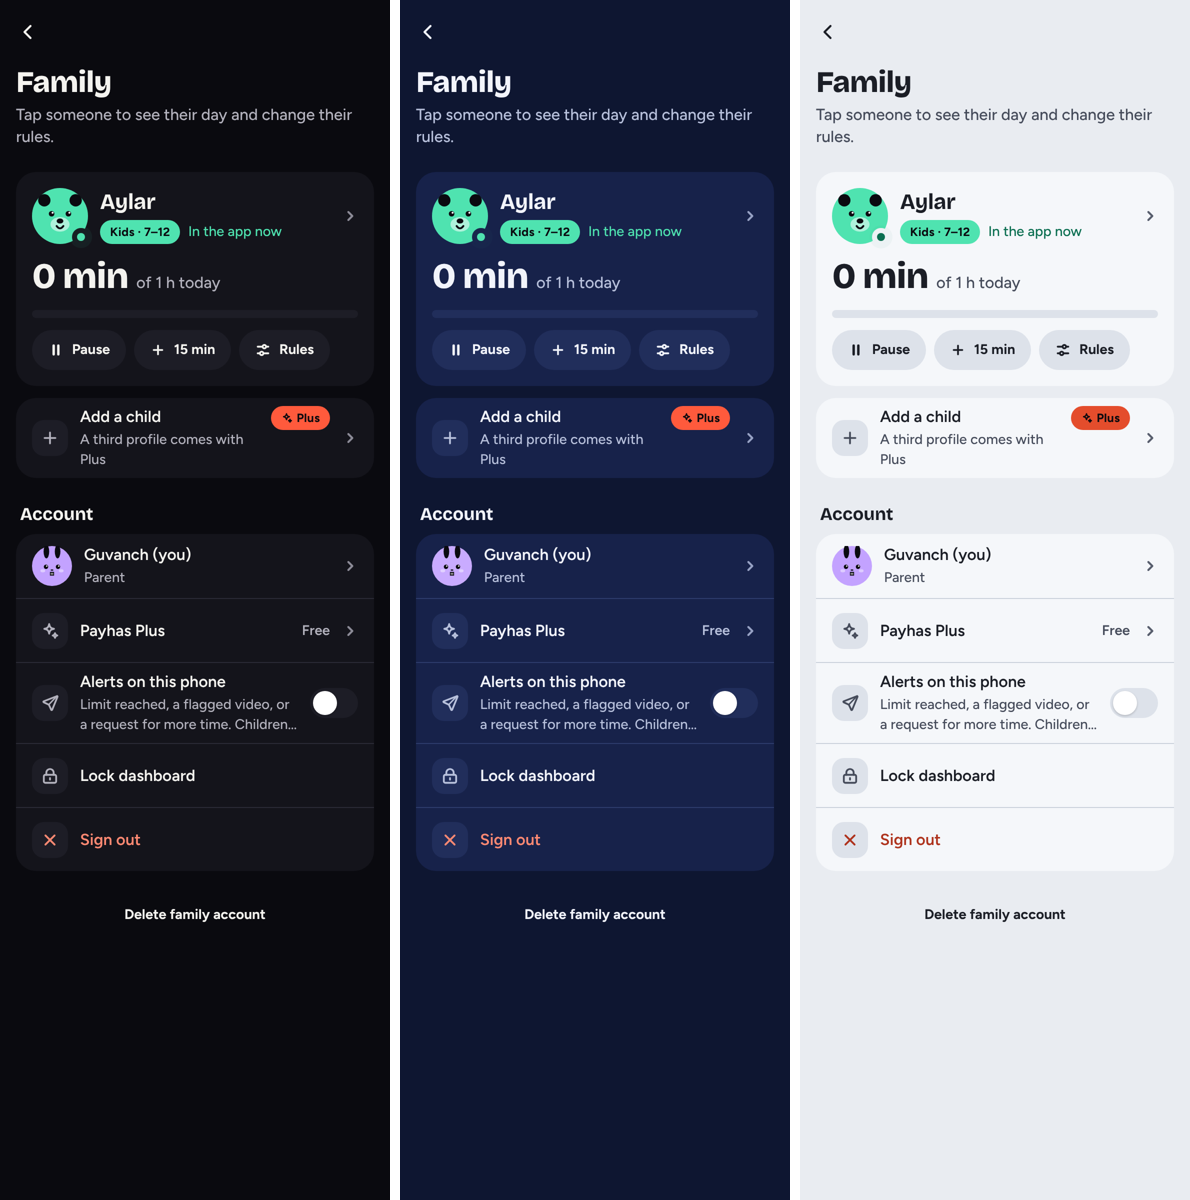
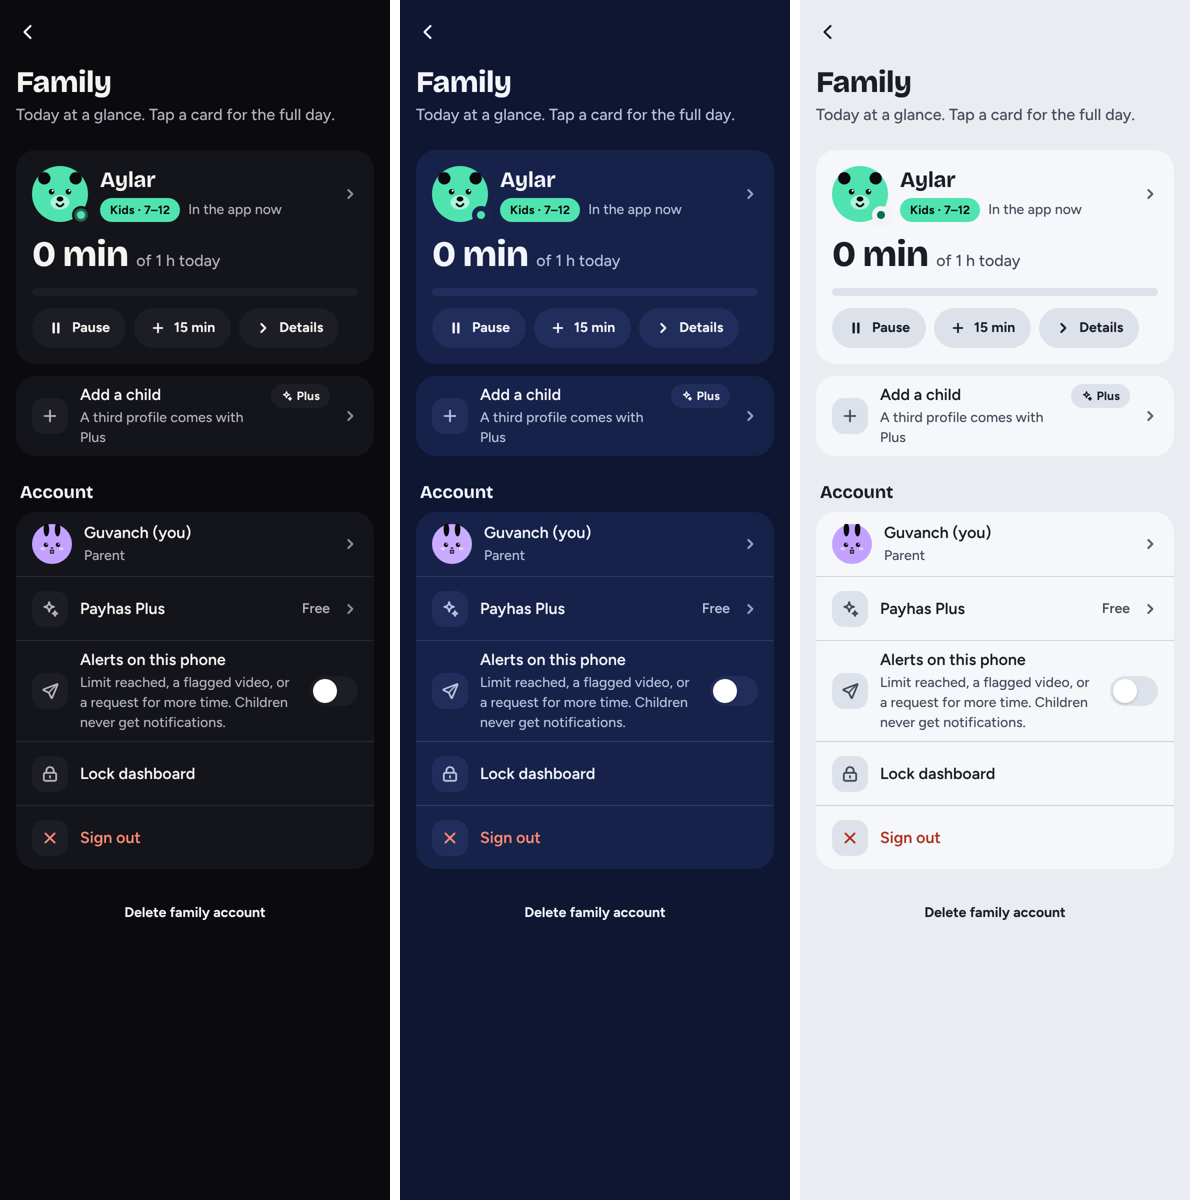
Play and Family: design critique and accessibility audit, with fixes
Critique (design-critique skill): Plus badge no longer ember, Undo on Pause,
"Rules" becomes "Details", open games before locked ones, neutral live
status, up-to-date subtitle, row hints up to three lines.
Accessibility (accessibility-audit skill + axe-core): named progress bars,
switch state on the row, tablist, no nested buttons, decorative game scenes
hidden, level-2 section headings, lane badge only a button when tappable,
card buttons named with the child. axe: 0 violations, Dark and Light.

Claude-Session: https://claude.ai/code/session_01BbM9SosTsaVhmqwJR5waFx

diff --git a/src/app/parent.tsx b/src/app/parent.tsx
@@ -1,6 +1,6 @@
 import { router, useFocusEffect, useLocalSearchParams } from 'expo-router';
 import { useCallback, useEffect, useRef, useState } from 'react';
-import { Alert, ScrollView, Text, View } from 'react-native';
+import { Alert, Pressable, ScrollView, Text, View } from 'react-native';
 
 import { Icon } from '@/components/Icon';
 import { LaneBadge } from '@/components/LaneBadge';
@@ -104,14 +104,15 @@ export default function FamilyScreen() {
     );
   }
 
-  const done = (ok: boolean, text: string) => {
+  /** Report an action; Pause passes `undo` so a mis-tap is one tap to reverse. */
+  const done = (ok: boolean, text: string, undo?: () => Promise<boolean>) => {
     if (!ok) {
       fx.error();
       toast({ text: t('parent.networkError'), icon: 'close' });
       return;
     }
     fx.success();
-    toast({ text, icon: 'check' });
+    toast({ text, icon: 'check', action: undo ? { label: t('parent.undo'), onPress: () => void undo() } : undefined });
   };
 
   const adults = profiles.filter((p) => p.lane === 'adult').sort((a, b) => Number(b.is_parent) - Number(a.is_parent));
@@ -125,7 +126,7 @@ export default function FamilyScreen() {
     <View style={styles.root}>
       <ScrollView contentContainerStyle={[styles.content, { paddingTop: top + space.sm, paddingBottom: bottom + space.xxl }]} showsVerticalScrollIndicator={false}>
         <Enter index={0}>
-          <PageHeader back title={t('parent.title')} subtitle={t('parent.familySub')} />
+          <PageHeader back title={t('parent.title')} subtitle={t('parent.familyGlance')} />
         </Enter>
 
         {(requests.length > 0 || flags.length > 0) && (
@@ -180,7 +181,7 @@ export default function FamilyScreen() {
                   onOpen={() => openChild(c)}
                   onPause={async () => {
                     const next = !c.paused;
-                    done(await setPaused(c, next), t(next ? 'parent.pausedToast' : 'parent.resumedToast', { name: c.display_name }));
+                    done(await setPaused(c, next), t(next ? 'parent.pausedToast' : 'parent.resumedToast', { name: c.display_name }), () => setPaused(c, !next));
                   }}
                   onAddTime={async () => done(await addTime(c, 15), t('parent.addedTime', { count: 15, name: c.display_name }))}
                 />
@@ -269,8 +270,8 @@ function ChildCard({ child, avatar, onOpen, onPause, onAddTime }: { child: Child
   const limit = child.daily_limit_minutes == null ? null : child.daily_limit_minutes + child.extra_minutes;
   const status = child.paused ? t('parent.paused') : p.text;
   return (
-    <Card onPress={onOpen} accessibilityLabel={`${child.display_name}, ${t(roleKey(child))}. ${status}`}>
-      <View style={styles.who}>
+    <Card>
+      <Pressable onPress={onOpen} accessibilityRole="button" accessibilityLabel={`${child.display_name}, ${t(roleKey(child))}. ${status}`} style={styles.who}>
         <View>
           <Avatar name={child.display_name} avatar={avatar} lane={child.lane} size={56} />
           {p.live && !child.paused && (
@@ -285,22 +286,22 @@ function ChildCard({ child, avatar, onOpen, onPause, onAddTime }: { child: Child
           </Text>
           <View style={styles.statusRow}>
             <LaneBadge lane={child.lane} label={`${t(roleKey(child))} · ${lanes[child.lane].ages}`} />
-            <Text style={[styles.status, child.paused ? { color: color.info } : p.live && { color: color.success }]} numberOfLines={1}>
+            <Text style={styles.status} numberOfLines={1}>
               {status}
             </Text>
           </View>
         </View>
         <Icon name="chevron" size={iconSize.sm} color={color.text3} strokeWidth={iconStroke(iconSize.sm)} />
-      </View>
+      </Pressable>
       <View style={styles.usedRow}>
         <Text style={styles.used}>{minutes(t, used)}</Text>
         <Text style={styles.muted}>{limit ? t('parent.ofToday', { limit: minutes(t, limit * 60) }) : t('parent.noLimit')}</Text>
       </View>
-      {limit != null && <ProgressBar progress={used / (limit * 60)} />}
+      {limit != null && <ProgressBar progress={used / (limit * 60)} label={`${child.display_name}: ${minutes(t, used)} ${t('parent.ofToday', { limit: minutes(t, limit * 60) })}`} />}
       <View style={styles.actions}>
-        <Button size="sm" variant="secondary" icon={child.paused ? 'play' : 'pause'} label={t(child.paused ? 'parent.resume' : 'parent.pauseShort')} onPress={onPause} />
-        {limit != null && <Button size="sm" variant="secondary" icon="plus" label={t('parent.addMin', { count: 15 })} onPress={onAddTime} />}
-        <Button size="sm" variant="secondary" icon="sliders" label={t('parent.rules')} onPress={onOpen} />
+        <Button size="sm" variant="secondary" icon={child.paused ? 'play' : 'pause'} label={t(child.paused ? 'parent.resume' : 'parent.pauseShort')} accessibilityLabel={`${t(child.paused ? 'parent.resume' : 'parent.pauseShort')}: ${child.display_name}`} onPress={onPause} />
+        {limit != null && <Button size="sm" variant="secondary" icon="plus" label={t('parent.addMin', { count: 15 })} accessibilityLabel={t('parent.addedTime', { count: 15, name: child.display_name })} onPress={onAddTime} />}
+        <Button size="sm" variant="secondary" icon="chevron" label={t('parent.details')} accessibilityLabel={`${t('parent.details')}: ${child.display_name}`} onPress={onOpen} />
       </View>
     </Card>
   );

diff --git a/src/app/(tabs)/play.tsx b/src/app/(tabs)/play.tsx
@@ -1,6 +1,6 @@
 import { router, useIsFocused } from 'expo-router';
 import { useEffect, useState } from 'react';
-import { ScrollView, StyleSheet, Text, useWindowDimensions, View } from 'react-native';
+import { Pressable, ScrollView, StyleSheet, Text, useWindowDimensions, View } from 'react-native';
 
 import { BottomSheet } from '@/components/BottomSheet';
 import { Icon } from '@/components/Icon';
@@ -70,7 +70,7 @@ export default function PlayScreen() {
             title={t('play.title')}
             subtitle={limitMinutes != null ? t('play.leftToday', { n: Math.max(0, limitMinutes - todayMin) }) : t('play.playedToday', { n: todayMin })}
           />
-          {limitMinutes != null && limitMinutes > 0 && <ProgressBar progress={todayMin / limitMinutes} />}
+          {limitMinutes != null && limitMinutes > 0 && <ProgressBar progress={todayMin / limitMinutes} label={t('play.leftToday', { n: Math.max(0, limitMinutes - todayMin) })} />}
         </Enter>
 
         {featured && (
@@ -80,7 +80,8 @@ export default function PlayScreen() {
         )}
 
         {SECTIONS.map((section) => {
-          const games = section.games.filter((id) => id !== featured);
+          // Open games first, locked ones after: a child shouldn't meet a wall of locks.
+          const games = section.games.filter((id) => id !== featured).sort((a, b) => Number(!gameOpen(a)) - Number(!gameOpen(b)));
           if (games.length === 0) return null;
           const grid = GRID_SECTIONS.includes(section.title);
           return (
@@ -119,7 +120,8 @@ export default function PlayScreen() {
 function Stage({ meta, active, locked, height }: { meta: GameMeta; active: boolean; locked: boolean; height: number }) {
   const { Scene } = meta;
   return (
-    <View style={[styles.stage, { height, backgroundColor: meta.tint }]}>
+    // Decorative scene: the tile around it carries the name for screen readers.
+    <View style={[styles.stage, { height, backgroundColor: meta.tint }]} accessible={false} importantForAccessibility="no-hide-descendants" aria-hidden>
       <Scene active={active && !locked} />
       {locked && (
         <View style={styles.lockScrim}>
@@ -136,8 +138,11 @@ function Featured({ meta, lane, focused, onPlay }: { meta: GameMeta; lane: Lane;
   const { t } = useT();
   const name = t(meta.name);
   return (
-    <Card hero tactile flush onPress={onPlay} accessibilityLabel={`${name}. ${meta.sub(lane, t)}`}>
-      <Stage meta={meta} active={focused} locked={false} height={HERO_STAGE} />
+    <Card hero tactile flush>
+      {/* The art is a big tap target for small hands; screen readers get the one Play button instead. */}
+      <Pressable onPress={onPlay} accessible={false} importantForAccessibility="no-hide-descendants">
+        <Stage meta={meta} active={focused} locked={false} height={HERO_STAGE} />
+      </Pressable>
       <View style={styles.heroFoot}>
         <View style={styles.grow}>
           <Text style={styles.heroName} numberOfLines={1}>
@@ -147,7 +152,7 @@ function Featured({ meta, lane, focused, onPlay }: { meta: GameMeta; lane: Lane;
             {meta.sub(lane, t)}
           </Text>
         </View>
-        <Button label={t('play.play')} size="sm" block={false} onPress={onPlay} />
+        <Button label={t('play.play')} accessibilityLabel={`${t('play.play')}: ${name}`} size="sm" block={false} onPress={onPlay} />
       </View>
     </Card>
   );

diff --git a/src/i18n/strings/parent.ts b/src/i18n/strings/parent.ts
@@ -11,6 +11,9 @@ export default defineStrings(
     laneMove: "{name} moves to {lane} ({ages}). Interests that don't fit are removed.",
     savedToast: '{name} saved',
     familySub: 'Tap someone to see their day and change their rules.',
+    familyGlance: 'Today at a glance. Tap a card for the full day.',
+    details: 'Details',
+    undo: 'Undo',
     yourFamily: 'Your family',
     needsYou: 'Needs you',
     account: 'Account',
@@ -140,6 +143,9 @@ export default defineStrings(
       laneMove: '{name} {lane} ({ages}) toparyna geçýär. Laýyk gelmeýän gyzyklanmalar aýrylýar.',
       savedToast: '{name} ýatda saklandy',
       familySub: 'Biriniň gününi görmek we düzgünlerini üýtgetmek üçin basyň.',
+      familyGlance: 'Şu gün bir bakyşda. Doly gün üçin kartoçka basyň.',
+      details: 'Jikme-jik',
+      undo: 'Yzyna al',
       yourFamily: 'Maşgalaňyz',
       needsYou: 'Jogabyňyza garaşýar',
       account: 'Hasap',
@@ -259,6 +265,9 @@ export default defineStrings(
       laneMove: '{name} {lane} ({ages}) grubuna geçiyor. Uymayan ilgi alanları kaldırılır.',
       savedToast: '{name} kaydedildi',
       familySub: 'Gününü görmek ve kurallarını değiştirmek için birine dokunun.',
+      familyGlance: 'Bugün bir bakışta. Tüm gün için karta dokunun.',
+      details: 'Ayrıntılar',
+      undo: 'Geri al',
       yourFamily: 'Aileniz',
       needsYou: 'Yanıtınızı bekliyor',
       account: 'Hesap',
@@ -378,6 +387,9 @@ export default defineStrings(
       laneMove: '{name} переходит в группу «{lane}» ({ages}). Неподходящие интересы будут удалены.',
       savedToast: '{name}: сохранено',
       familySub: 'Нажмите на человека, чтобы увидеть его день и изменить правила.',
+      familyGlance: 'Сегодня с первого взгляда. Нажмите на карточку, чтобы увидеть весь день.',
+      details: 'Подробнее',
+      undo: 'Отменить',
       yourFamily: 'Ваша семья',
       needsYou: 'Ждёт вашего ответа',
       account: 'Аккаунт',

diff --git a/src/components/LaneBadge.tsx b/src/components/LaneBadge.tsx
@@ -1,4 +1,4 @@
-import { Pressable, Text } from 'react-native';
+import { Pressable, Text, View } from 'react-native';
 
 import { Icon } from '@/components/Icon';
 import { laneKey, useT } from '@/i18n';
@@ -15,17 +15,18 @@ export function LaneBadge({ lane, label, onPress, variant = 'filled' }: Props) {
   const l = lanes[lane];
   const { t } = useT();
   const name = label ?? t(laneKey(lane));
-  return (
-    <Pressable
-      onPress={onPress}
-      accessibilityRole="button"
-      accessibilityLabel={t('common.laneBadge', { lane: name, ages: l.ages })}
-      hitSlop={8}
-      disabled={!onPress}
-      style={[styles.badge, variant === 'filled' ? { backgroundColor: l.color } : styles.media]}
-    >
+  const body = (
+    <>
       {variant === 'media' && <Icon name="shield" size={12} color={l.color} strokeWidth={2.4} />}
       <Text style={[styles.label, { color: variant === 'filled' ? color.ink : l.color }]}>{name}</Text>
+    </>
+  );
+  const style = [styles.badge, variant === 'filled' ? { backgroundColor: l.color } : styles.media];
+  // Only a tappable badge is a button ("… Switch profile"); otherwise it's just text.
+  if (!onPress) return <View style={style}>{body}</View>;
+  return (
+    <Pressable onPress={onPress} accessibilityRole="button" accessibilityLabel={t('common.laneBadge', { lane: name, ages: l.ages })} hitSlop={8} style={style}>
+      {body}
     </Pressable>
   );
 }

diff --git a/src/components/ui/Badge.tsx b/src/components/ui/Badge.tsx
@@ -5,11 +5,15 @@ import { color, font, iconSize, iconStroke, radius, space, themedStyles, type } 
 
 type Tone = 'neutral' | 'plus' | 'success' | 'danger';
 
-/** A small pill label: plan names, counts, states. Lane badges use LaneBadge (lane colours mean age only). */
+/**
+ * A small pill label: plan names, counts, states. Lane badges use LaneBadge
+ * (lane colours mean age only). `plus` is neutral with the sparkle — ember is
+ * for actions, not labels.
+ */
 export function Badge({ label, tone = 'neutral', icon }: { label: string; tone?: Tone; icon?: IconName }) {
-  const fg = tone === 'plus' ? color.ink : tone === 'success' ? color.success : tone === 'danger' ? color.danger : color.text2;
+  const fg = tone === 'plus' ? color.text : tone === 'success' ? color.success : tone === 'danger' ? color.danger : color.text2;
   return (
-    <View style={[styles.badge, tone === 'plus' && { backgroundColor: color.ember }]}>
+    <View style={styles.badge}>
       {!!icon && <Icon name={icon} size={12} color={fg} strokeWidth={iconStroke(iconSize.sm)} />}
       <Text style={[styles.text, { color: fg }]} numberOfLines={1}>
         {label}

diff --git a/src/components/ui/List.tsx b/src/components/ui/List.tsx
@@ -11,7 +11,7 @@ export function ListGroup({ title, footer, children }: { title?: string; footer?
   return (
     <View style={{ gap: space.sm }}>
       {!!title && (
-        <Text style={styles.groupTitle} accessibilityRole="header">
+        <Text style={styles.groupTitle} accessibilityRole="header" aria-level={2}>
           {title}
         </Text>
       )}
@@ -56,7 +56,7 @@ export function ListRow({ label, sub, leading, icon, value, toggle, onPress, dan
           {label}
         </Text>
         {typeof sub === 'string' ? (
-          <Text style={styles.sub} numberOfLines={2}>
+          <Text style={styles.sub} numberOfLines={3}>
             {sub}
           </Text>
         ) : (
@@ -85,6 +85,7 @@ export function ListRow({ label, sub, leading, icon, value, toggle, onPress, dan
       }}
       accessibilityRole={toggle != null ? 'switch' : 'button'}
       accessibilityState={toggle != null ? { checked: toggle } : undefined}
+      aria-checked={toggle ?? undefined}
       accessibilityLabel={accessibilityLabel ?? label}
       style={({ pressed }) => [style, pressed && { backgroundColor: color.surface2 }]}
     >

diff --git a/src/components/ui/ProgressBar.tsx b/src/components/ui/ProgressBar.tsx
@@ -2,12 +2,12 @@ import { View } from 'react-native';
 
 import { color, radius, themedStyles } from '@/theme/tokens';
 
-/** Time used or progress: success green, danger once it's full. `thin` for inside rows. */
-export function ProgressBar({ progress, thin }: { progress: number; thin?: boolean }) {
+/** Time used or progress: success green, danger once it's full. `thin` for inside rows. `label` names it for screen readers. */
+export function ProgressBar({ progress, label, thin }: { progress: number; label: string; thin?: boolean }) {
   const p = Math.max(0, Math.min(1, progress));
   const h = thin ? 6 : 8;
   return (
-    <View style={[styles.track, { height: h }]} accessibilityRole="progressbar" accessibilityValue={{ min: 0, max: 100, now: Math.round(p * 100) }}>
+    <View style={[styles.track, { height: h }]} accessibilityRole="progressbar" accessibilityLabel={label} accessibilityValue={{ min: 0, max: 100, now: Math.round(p * 100) }}>
       <View style={[styles.fill, { width: `${Math.max(p > 0 ? 3 : 0, p * 100)}%`, backgroundColor: p >= 1 ? color.danger : color.success }]} />
     </View>
   );

diff --git a/src/app/(tabs)/_layout.tsx b/src/app/(tabs)/_layout.tsx
@@ -88,7 +88,7 @@ export default function TabsLayout() {
     <Tabs style={styles.root}>
       <TabSlot style={styles.root} />
       {/* Floats above the gesture bar; screens add useTabBarSpace() so content clears it. */}
-      <TabList style={[styles.bar, { bottom: bottom + TAB_BAR.gap }]} onLayout={(e) => setWidth(e.nativeEvent.layout.width)}>
+      <TabList accessibilityRole="tablist" style={[styles.bar, { bottom: bottom + TAB_BAR.gap }]} onLayout={(e) => setWidth(e.nativeEvent.layout.width)}>
         <Highlight width={width} />
         <TabTrigger name="index" href="/" asChild>
           <TabButton kind="home" label={t('nav.home')} />

diff --git a/src/components/motion/Toggle.tsx b/src/components/motion/Toggle.tsx
@@ -21,7 +21,8 @@ export function Toggle({ on, tint = color.success }: { on: boolean; tint?: strin
   });
 
   return (
-    <Animated.View style={[styles.track, track]} accessibilityRole="switch" accessibilityState={{ checked: on }}>
+    // Display only: the row that holds it is the switch (role, state and label live there).
+    <Animated.View style={[styles.track, track]} accessible={false} importantForAccessibility="no-hide-descendants" aria-hidden>
       <Animated.View style={[styles.knob, knob]} />
     </Animated.View>
   );

diff --git a/src/app/gallery.tsx b/src/app/gallery.tsx
@@ -106,9 +106,9 @@ export default function GalleryScreen() {
       </Section>
 
       <Section title="Progress">
-        <ProgressBar progress={0.25} />
-        <ProgressBar progress={1} />
-        <ProgressBar progress={0.6} thin />
+        <ProgressBar progress={0.25} label="15 of 60 min" />
+        <ProgressBar progress={1} label="60 of 60 min" />
+        <ProgressBar progress={0.6} thin label="Thin, 60%" />
       </Section>
 
       <Section title="Empty state">

diff --git a/src/components/ui/SectionHeader.tsx b/src/components/ui/SectionHeader.tsx
@@ -8,7 +8,7 @@ export function SectionHeader({ title, subtitle, action, onAction }: { title: st
   return (
     <View style={styles.row}>
       <View style={{ flex: 1, gap: 2 }}>
-        <Text style={styles.title} accessibilityRole="header" numberOfLines={1}>
+        <Text style={styles.title} accessibilityRole="header" aria-level={2} numberOfLines={1}>
           {title}
         </Text>
         {!!subtitle && <Text style={styles.subtitle}>{subtitle}</Text>}

diff --git a/design/screens/CRITIQUE-play-family.md b/design/screens/CRITIQUE-play-family.md
@@ -1,0 +1,63 @@
+# Design critique — Play and Family (rebuilt)
+
+Run with the `design-skills:design-critique` skill (Nielsen heuristics, UX laws,
+Krug checks, content review), 2026-10-30.
+
+## Context
+
+- **Design:** Play tab (child) and Family dashboard (parent), rebuilt from the
+  shared components — `play-built.png`, `family-built.png` (Dark · Navy · Light)
+- **Fidelity:** live product (web build of the app)
+- **Personas:** Play — a child aged 4–12 on the Free plan, some not yet
+  reading. Family — a parent checking in for a few seconds, often one-handed.
+- **Primary tasks:** Play — start a game. Family — see each child's day and
+  act (pause, give time, change rules).
+- **Posture:** both transient (seconds to a minute), so obvious UI and fast in/out.
+
+## First impression (5-second scan)
+
+| | Play | Family |
+| --- | --- | --- |
+| What is it about? | Games, with time left today | My child's day |
+| Primary action | The featured game's Play button | Unclear — three equal buttons, plus an orange "Plus" badge pulls the eye |
+| Where would I tap first? | The big Bubble Pop card | The orange Plus badge on "Add a child" |
+| Confusing? | A wall of locks below the fold (Free plan) | "Rules" opens the whole child page, not rules |
+
+Play: **clear**. Family: **mostly clear**.
+
+## Findings
+
+| # | Screen | Finding | Principle | Sev | Fix |
+| --- | --- | --- | --- | --- | --- |
+| 1 | Family | The **Plus badge is ember**, the loudest thing on the page, on a row that is not the main task. It also breaks "ember = do this". | Von Restorff · Visual hierarchy · Principle 1–2 | 2 | Badge `plus` tone becomes neutral with the sparkle icon. Ember stays for actions only. |
+| 2 | Family | **"+15 min" grants time in one tap** with no way back. A parent can do it by mistake while scrolling. | H5 Error prevention · H3 User control | 2 | Keep the one tap (it's the common case) and add **Undo** to the toast. Same for **Pause**. |
+| 3 | Family | **"Rules" opens the whole child page** (day, week, rules). The label promises less than it does, and the card tap already goes there. | H4 Consistency · Labels match destination | 2 | Rename to **"Details"**. One meaning: open this child. |
+| 4 | Play | On Free, **6 of 10 games are locked**. Brain games and Puzzles become walls of locks and "Ask a parent", the first thing a child sees after Quick play. | H8 Minimalist · Goodwill · Serial position | 2 | Open games first in every section; locked ones after. |
+| 5 | Family | The **live status is green next to the mint Kids badge**: two near-identical greens meaning different things (status vs age lane). | Law of Similarity · Principle 2 | 1 | Status text in `text2`; the live dot alone carries "now". |
+| 6 | Family | **Subtitle is out of date**: "Tap someone to see their day and change their rules" describes the old list, not cards with buttons. | Content: useful · H2 | 1 | "Today at a glance. Tap a card for the full day." |
+| 7 | Family | **Alerts row text is cut off** ("…Children…") right where it says children never get notifications, the privacy promise. | Content: responsible · Truncation | 1 | Let row sub-lines run to three lines. |
+| 8 | Play | **Shelf tiles truncate** the lane line ("Tap the pals, skip the …"). | Overflow handled gracefully | 1 | Accept for now (name carries the meaning); revisit with a duration-only line when games expose duration. |
+
+Severity: 0 none · 1 cosmetic/minor · 2 moderate · 3 major · 4 blocks the task.
+Nothing at 3 or 4.
+
+## What's working
+
+- **One loud thing on Play.** The featured card and its single ember button are
+  the clear entry (Von Restorff, Principle 1). The rest is tactile but quiet.
+- **Shelves peek the next tile**, so horizontal scroll is discoverable (Jakob's law).
+- **Family puts the number first.** "15 min of 1 h today" plus the bar answers the
+  parent's question in one glance (Krug: self-evident). Actions sit on the card
+  they affect (proximity, no navigational excise).
+- **Same parts everywhere.** Cards, rows, buttons and badges are identical across
+  both screens and all three themes (H4, Law of Similarity).
+- **No prices on the child side.** Locked games say "Ask a parent" (goodwill,
+  responsible content).
+
+## Fix status
+
+| # | Status |
+| --- | --- |
+| 1, 3–7 | Fixed in the same change as this report |
+| 2 | Half fixed: **Pause** now has Undo on its toast. **+15 min** can't be undone yet — `grant_extra_time` only accepts 5–120 minutes and also posts "15 more minutes today" to the child, so an honest undo needs a new server function (`revoke_extra_time`) that removes both. |
+| 8 | Deferred (needs a duration field per game) |
